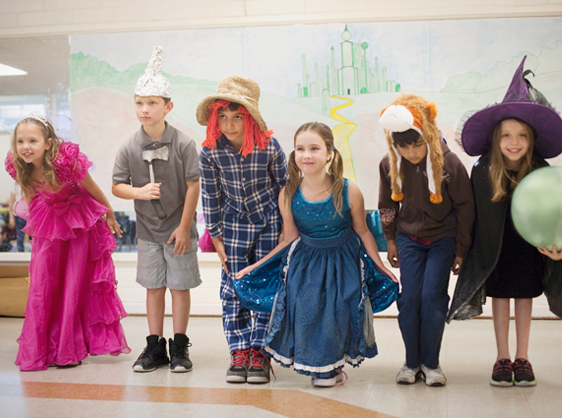
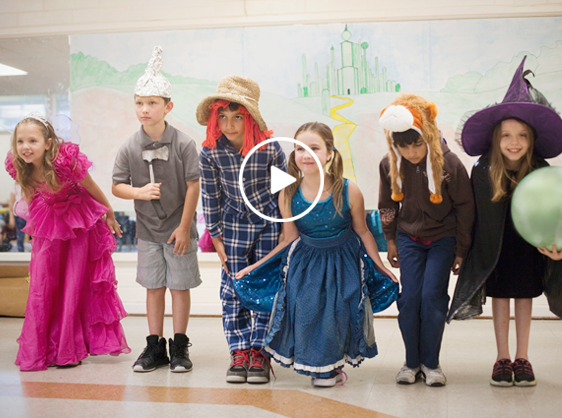
update files

Changed region(s): [[0.4235, 0.311, 0.5747, 0.5287]]

diff --git a/模板/栏目页/教研团队-列表.html b/模板/栏目页/教研团队-列表.html
@@ -18,7 +18,9 @@
   <div class="container">
     <div class="row">
       <div class="col-sm-6 px-0">
-        <div style="background: #0a7fa4; height: 240px;"></div>
+        <div style="background: #0a7fa4; height: 418px; background: url(/public/images/teacher/video-01.png) no-repeat;">
+          <a data-url="/video/teacher/foreign_teacher_interview1.mp4" data-title="外教采访" data-target=".modal-video-show" data-toggle="modal" style="cursor: pointer; height: 418px;" class="u-btn-show-video-modal d-block"></a>
+        </div>
       </div>
       <div class="col-sm-6 m-content">
         <h1 class="px-3">睿知少儿戏剧英语</h1>
@@ -117,20 +119,21 @@
   <div class="container">
     <div class="row">
       <div class="col-sm-6 px-0">
-        <div style="background: #0a7fa4; height: 240px;"></div>
+        <div style="background: #0a7fa4; height: 418px; background: url(/public/images/teacher/video-02.png) no-repeat;">
+          <a data-url="/video/teacher/foreign_teacher_interview2.mp4" data-title="教师采访" data-target=".modal-video-show" data-toggle="modal" style="cursor: pointer; height: 418px;" class="u-btn-show-video-modal d-block"></a>
+        </div>
       </div>
       <div class="col-sm-6 m-content">
         <h1 class="px-3">睿知少儿戏剧英语</h1>
         <div class="py-3 px-3">提升语言能力，拓展思维的广度和深度提升语言能力，拓展思维的广度和深度</div>
       </div>
-
     </div>
   </div>
 </div>
 
 <div class="g-teacher-recommend">
   <div class="container">
-    <div class="m-content py-5">
+    <div class="m-content pb-5">
       <div class="row">
         {PE.Label id="2018-教研团队-列表" nodeid="11" titleLength="31"  linkOpenType="1" outputQty="4"/}
       </div>
@@ -138,6 +141,20 @@
 
   </div>
 </div>
+
+<div class="g-partner py-5">
+  <div class="container">
+    <div class="row">
+      <div class="col m-partner"><div style="background: url(/public/images/teacher/img-partner-01.png) no-repeat center center;" class="pb-3"></div>纽约电影学院</div>
+      <div class="col m-partner"><div style="background: url(/public/images/teacher/img-partner-02.png) no-repeat center center;" class="pb-3"></div>上海戏剧学院</div>
+      <div class="col m-partner"><div style="background: url(/public/images/teacher/img-partner-03.png) no-repeat center center;" class="pb-3"></div>东华大学</div>
+      <div class="col m-partner"><div style="background: url(/public/images/teacher/img-partner-04.png) no-repeat center center;" class="pb-3"></div>哈佛大学</div>
+      <div class="col m-partner"><div style="background: url(/public/images/teacher/img-partner-05.png) no-repeat center center;" class="pb-3"></div>中国儿童艺术剧院</div>
+    </div>
+  </div>
+</div>
+
+{pe.label id="2018-精彩视频-modal" /}
 
 {pe.label id="2018-全局-公共底部" /}
 
@@ -148,13 +165,20 @@
         $(".nav-name-teacher").addClass("active");
 
         $('.m-photo-slide1 .s:first').animate({width: '921px'}, "fast");
-        $('.m-photo-slide2 .s:first').animate({width: '921px'}, "fast");
-        $('.m-photo-slide .s').mouseenter(function (j) {
-            //$('.m-photo-slide .s .mask').addClass('d-block');
-            //$('.m-photo-slide .s .m-info').addClass('d-none');
-            $(this).children('.mask').removeClass('d-block').addClass('d-none').siblings().children('.mask').removeClass('d-none').addClass('d-block');
-            $(this).children('.m-info').removeClass('d-none').addClass('d-block').siblings().children('.m-info').removeClass('d-block').addClass('d-none');
-            $(this).stop(true, true).animate({width: '921px'}, '2000').siblings().stop(true, true).animate({width: '219px'}, '2000');
+        $('.m-photo-slide2 .s:first').animate({width: '926px'}, "fast");
+        $('.m-photo-slide1 .s').mouseenter(function (j) {
+            $('.m-photo-slide1 .s .mask').addClass('d-block');
+            $('.m-photo-slide1 .s .m-info').addClass('d-none');
+            $(this).children('.mask').removeClass('d-block').addClass('d-none');
+            $(this).children('.m-info').removeClass('d-none').addClass('d-block');
+            $(this).stop(true, true).animate({width: '926px'}, '2000').siblings().stop(true, true).animate({width: '194px'}, '2000');
+        });
+        $('.m-photo-slide2 .s').mouseenter(function (j) {
+            $('.m-photo-slide2 .s .mask').addClass('d-block');
+            $('.m-photo-slide2 .s .m-info').addClass('d-none');
+            $(this).children('.mask').removeClass('d-block').addClass('d-none');
+            $(this).children('.m-info').removeClass('d-none').addClass('d-block');
+            $(this).stop(true, true).animate({width: '926px'}, '2000').siblings().stop(true, true).animate({width: '194px'}, '2000');
         });
     });
 </script>

diff --git a/标签/自建标签/2018-精彩视频-滑动门框架.html b/标签/自建标签/2018-精彩视频-滑动门框架.html
@@ -1,22 +1,22 @@
 <ul class="nav nav-pills my-3" role="tablist">
   <li class="nav-item">
-    <a class="nav-link active" data-toggle="pill" href="#m-intro-1" role="tab" aria-controls="m-video-hot-study" aria-selected="true">学员专区</a>
+    <a class="nav-link active" data-toggle="pill" href="#m-video-hot-study" role="tab" aria-controls="m-video-hot-study" aria-selected="true">学员专区</a>
   </li>
   <li class="nav-item">
-    <a class="nav-link" data-toggle="pill" href="#m-intro-2" role="tab" aria-controls="m-video-hot-event" aria-selected="false">活动专区</a>
+    <a class="nav-link" data-toggle="pill" href="#m-video-hot-event" role="tab" aria-controls="m-video-hot-event" aria-selected="false">活动专区</a>
   </li>
   <li class="nav-item">
-    <a class="nav-link" data-toggle="pill" href="#m-intro-2" role="tab" aria-controls="m-video-hot-class" aria-selected="false">课堂专区</a>
+    <a class="nav-link" data-toggle="pill" href="#m-video-hot-class" role="tab" aria-controls="m-video-hot-class" aria-selected="false">课堂专区</a>
   </li>
 </ul>
 <div class="tab-content">
-  <div class="tab-pane fade show active" id="m-intro-1" role="tabpanel" aria-labelledby="m-video-hot-study">
+  <div class="tab-pane fade show active" id="m-video-hot-study" role="tabpanel" aria-labelledby="m-video-hot-study">
     {pe.label id="2018-精彩视频-切换内容" nodeid="20" tagid="m-video-hot-study" /}
   </div>
-  <div class="tab-pane fade" id="m-intro-2" role="tabpanel" aria-labelledby="m-video-hot-event">
+  <div class="tab-pane fade" id="m-video-hot-event" role="tabpanel" aria-labelledby="m-video-hot-event">
     {pe.label id="2018-精彩视频-切换内容" nodeid="21" tagid="m-video-hot-event" /}
   </div>
-  <div class="tab-pane fade" id="m-intro-3" role="tabpanel" aria-labelledby="m-video-hot-class">
+  <div class="tab-pane fade" id="m-video-hot-class" role="tabpanel" aria-labelledby="m-video-hot-class">
     {pe.label id="2018-精彩视频-切换内容" nodeid="22" tagid="m-video-hot-class" /}
   </div>
 </div>

diff --git a/public/js/main.js b/public/js/main.js
@@ -1,14 +1,16 @@
 $(function(){
+    //教师
     $(".g-teacher-recommend .u-content").each(function(i){
         $(this).hover(function(){
             $(".g-teacher-recommend .u-content .u-info:eq("+i+")").stop().animate({"margin-top":"0"});
             $(".g-teacher-recommend .u-content .u-btn:eq("+i+")").stop().addClass("u-btn-light");
         },function(){
-            $(".g-teacher-recommend .u-content .u-info:eq("+i+")").stop().animate({"margin-top":"430px"});
+            $(".g-teacher-recommend .u-content .u-info:eq("+i+")").stop().animate({"margin-top":"371px"});
             $(".g-teacher-recommend .u-content .u-btn:eq("+i+")").stop().removeClass("u-btn-light");
         });
     });
-    
+
+    //报名信息
     $(".u-btn-order-submit").on('click', function () {
         //$(this).attr('data-rel')
         arrOrderInfo = new Array();
@@ -19,6 +21,7 @@ $(function(){
         orderInfoPost(arrOrderInfo);
     });
 
+    //弹窗播放视频-开始
     $('.u-btn-show-video-modal').click(function () {
         $('.modal-video-show .modal-title').html($(this).attr('data-title'));
         $('#u-video-source').prop('src', $(this).attr('data-url'));
@@ -36,6 +39,7 @@ $(function(){
         $('.modal-video-show .modal-title').html();
         document.getElementById("m-video").src = '';
     });
+    //弹窗播放视频-结束
 
 });
 

diff --git a/模板/栏目页/近期开班-列表.html b/模板/栏目页/近期开班-列表.html
@@ -69,6 +69,18 @@
                 <div class="carousel-item">
                   <img class="d-block w-100" src="/public/images/class/img-app-02.png" alt="Second slide">
                 </div>
+                <div class="carousel-item">
+                  <img class="d-block w-100" src="/public/images/class/img-app-03.jpeg" alt="Second slide">
+                </div>
+                <div class="carousel-item">
+                  <img class="d-block w-100" src="/public/images/class/img-app-04.png" alt="Second slide">
+                </div>
+                <div class="carousel-item">
+                  <img class="d-block w-100" src="/public/images/class/img-app-05.jpeg" alt="Second slide">
+                </div>
+                <div class="carousel-item">
+                  <img class="d-block w-100" src="/public/images/class/img-app-06.jpeg" alt="Second slide">
+                </div>
               </div>
             </div>
           </div>

diff --git a/标签/自建标签/2018-全局-底部JS.html b/标签/自建标签/2018-全局-底部JS.html
@@ -1,0 +1,28 @@
+<script src="/public/js/strings.js"></script>
+<script src="/public/js/px-video.js"></script>
+
+<script type='text/javascript'>
+    (function(m, ei, q, i, a, j, s) {
+        m[i] = m[i] || function() {
+            (m[i].a = m[i].a || []).push(arguments)
+        };
+        j = ei.createElement(q),
+            s = ei.getElementsByTagName(q)[0];
+        j.async = true;
+        j.charset = 'UTF-8';
+        j.src = 'https://static.meiqia.com/dist/meiqia.js?_=t';
+        s.parentNode.insertBefore(j, s);
+    })(window, document, 'script', '_MEIQIA');
+    _MEIQIA('entId', 88302);
+    _MEIQIA('withoutBtn');
+    _MEIQIA('allSet', selfFunction);
+
+    function selfFunction(servability) {
+        console.log('美洽网站插件初始化完毕。');
+        if (servability) {
+            console.log('有客服在线');
+        } else {
+            console.log('无客服在线');
+        }
+    }
+</script>

diff --git a/public/css/main.less b/public/css/main.less
@@ -322,13 +322,13 @@ h5 {
       background-color: @color-main;
       background-repeat: no-repeat;
       background-size: 100%;
-      height: 530px;
+      height: 470px;
       .u-info {
         text-align: center;
         padding: 18px;
         background: url(/public/images/bg-maincolor-translucent.png);
-        margin: 430px 0 0 0;
-        height: 530px;
+        margin: 371px 0 0 0;
+        height: 371px;
         .u-name {
           font-size: @font-size-xl;
           color: #fff;
@@ -362,7 +362,7 @@ h5 {
         width: 30px;
         height: 30px;
         text-align: center;
-        line-height: 28px;
+        line-height: 23px;
         color: @color-main;
         border: solid 1px @color-main;
         display: block;

diff --git a/模板/内容页模板/课程内容页.html b/模板/内容页模板/课程内容页.html
@@ -46,7 +46,7 @@
               <div class="u-age">适合年龄：{PE.Field id="cone" fieldname="age" /}</div>
               <div class="u-age">课时数：{PE.Field id="cone" fieldname="classhour" /}</div>
               <div class="u-address">校区：仁和春天光华店校区</div>
-              <div class="u-btn mt-5"><a href="" class="mr-3">预约试听</a> <a href="">点击咨询</a></div>
+              <div class="u-btn mt-5"><a href="" class="mr-3">预约试听</a> <a href="javascript:void(0)" onclick="_MEIQIA('showPanel')">点击咨询</a></div>
             </div>
           </div>
 

diff --git a/public/css/teacher.less b/public/css/teacher.less
@@ -20,10 +20,21 @@
   }
 }
 
+.g-partner {
+  background: #eeeeee;
+  .container {
+    .m-partner {
+      text-align: center;
+      &>div {
+        height: 200px;
+      }
+    }
+  }
+}
 /*风琴样式表*/
 .m-photo-slide{
   .m-slide {
-    @width : 219px;
+    @width : 194px;
     @height : 490px;
 
     position: relative;
@@ -51,7 +62,7 @@
       }
       .m-info {
         position: absolute;
-        width: 585px;
+        width: 560px;
         height: 490px;
         margin: 0 0 0 366px;
         color: @color-white;

diff --git a/模板/栏目页/热门活动-列表.html b/模板/栏目页/热门活动-列表.html
@@ -5,7 +5,6 @@
   {pe.label id="2018-全局-cssjs-上部分" /}
   <link rel="stylesheet/less" href="/public/css/event.less">
   {pe.label id="2018-全局-cssjs-下部分" /}
-  <link rel="stylesheet" href="/public/css/px-video.css"/>
 </head>
 <body>
 
@@ -218,9 +217,6 @@
 {pe.label id="2018-精彩视频-modal" /}
 
 {pe.label id="2018-全局-公共底部" /}
-
-<script src="/public/js/strings.js"></script>
-<script src="/public/js/px-video.js"></script>
 
 {pe.label id="2018-全局-底部JS" /}
 

diff --git a/模板/首页模板/首页模板.html b/模板/首页模板/首页模板.html
@@ -5,7 +5,6 @@
   {pe.label id="2018-全局-cssjs-上部分" /}
   <link rel="stylesheet/less" href="/public/css/index.less">
   {pe.label id="2018-全局-cssjs-下部分" /}
-  <link rel="stylesheet" href="/public/css/px-video.css"/>
 </head>
 <body>
 
@@ -64,9 +63,6 @@
 {pe.label id="2018-精彩视频-modal" /}
 
 {pe.label id="2018-全局-公共底部" /}
-
-<script src="/public/js/strings.js"></script>
-<script src="/public/js/px-video.js"></script>
 
 {pe.label id="2018-全局-底部JS" /}
 
